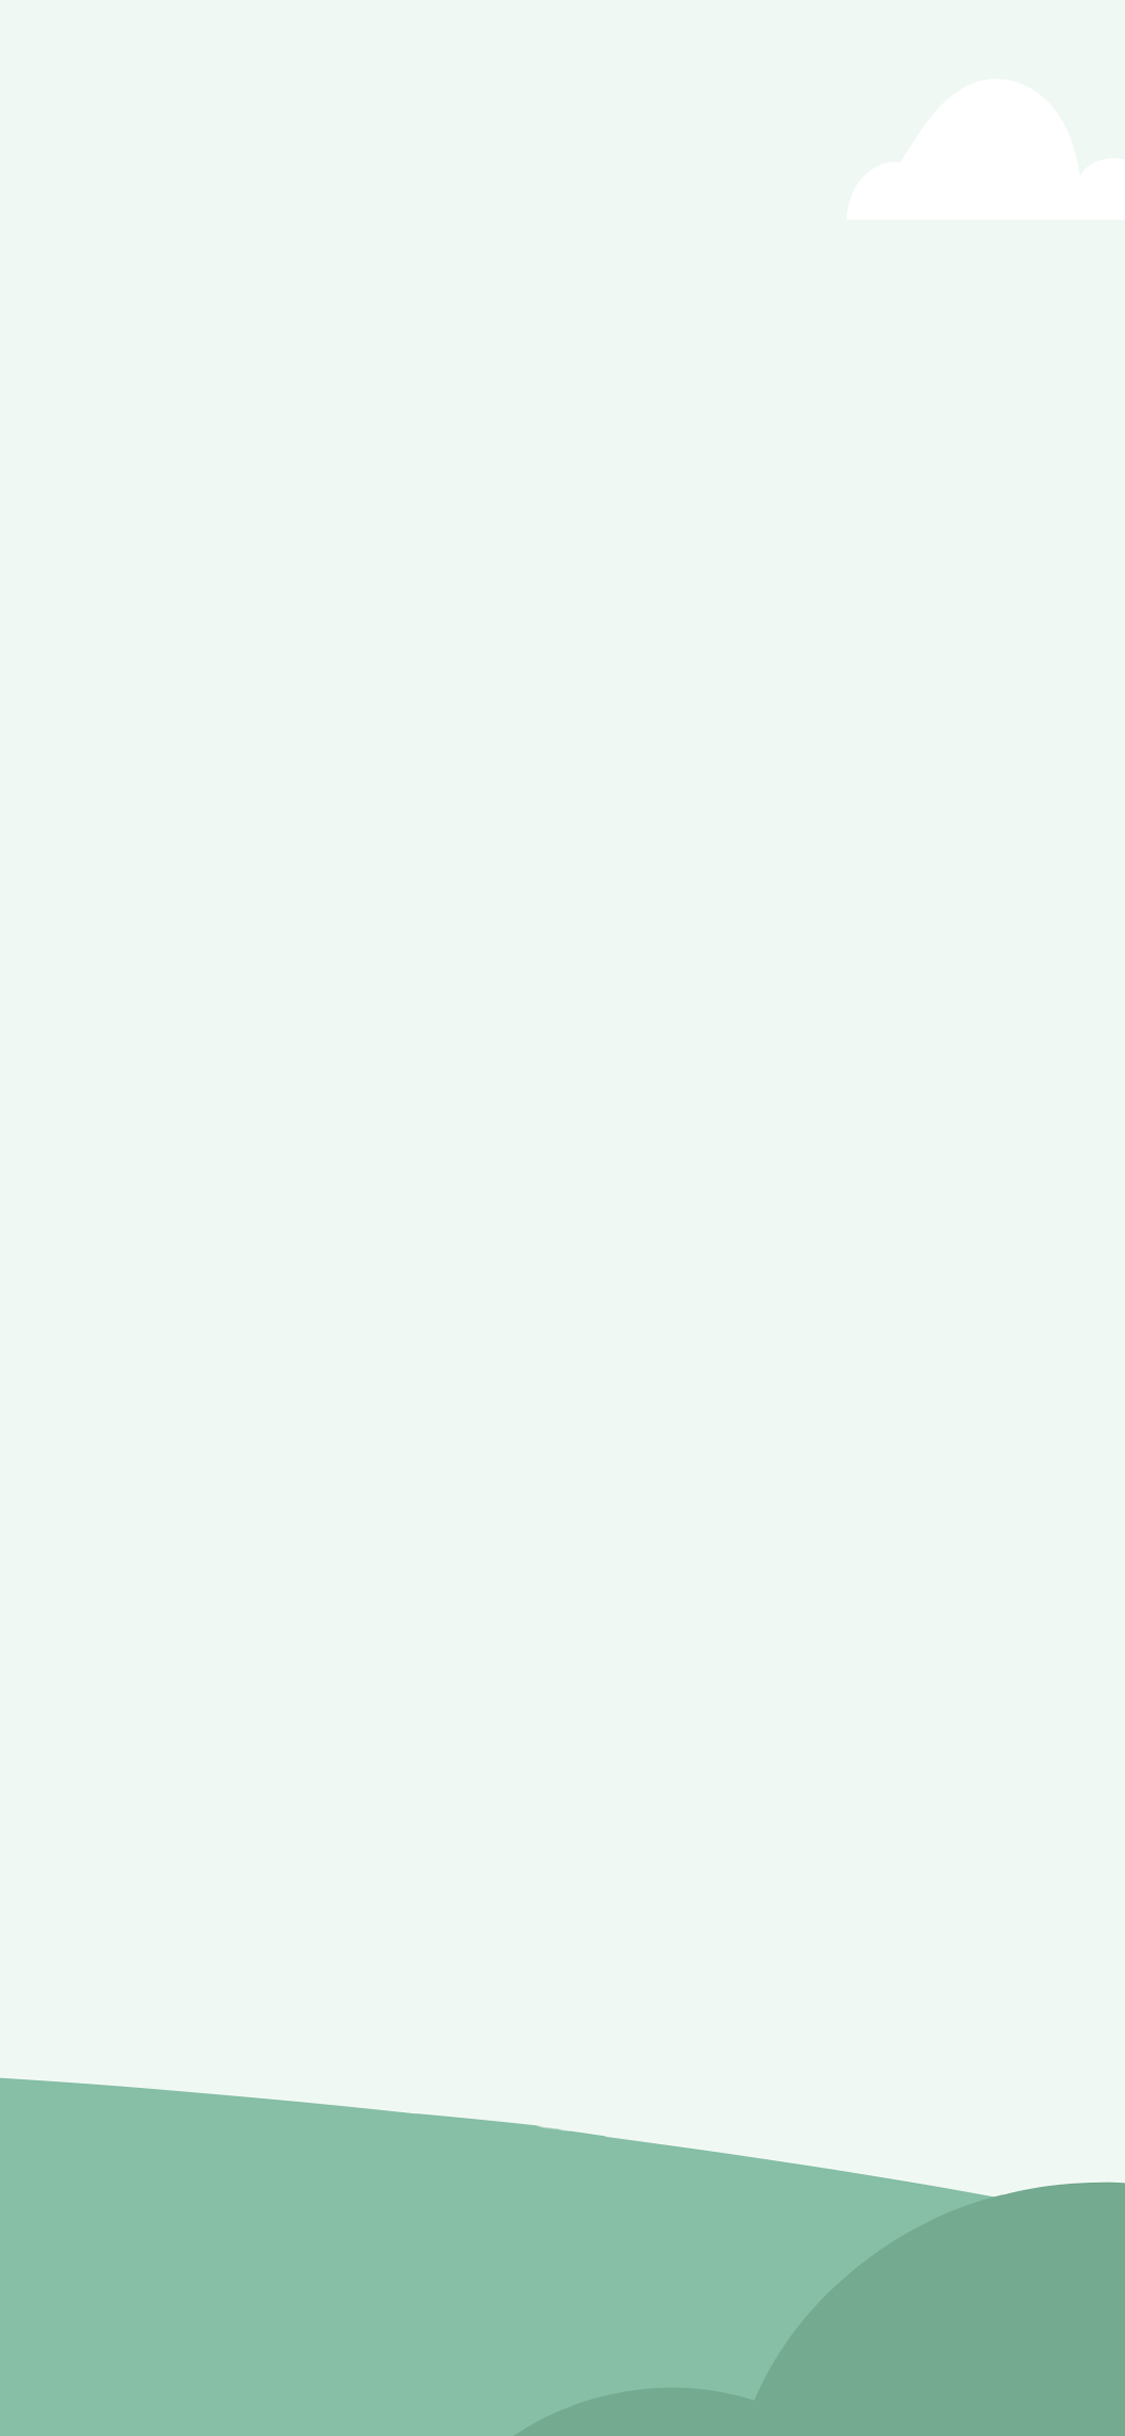
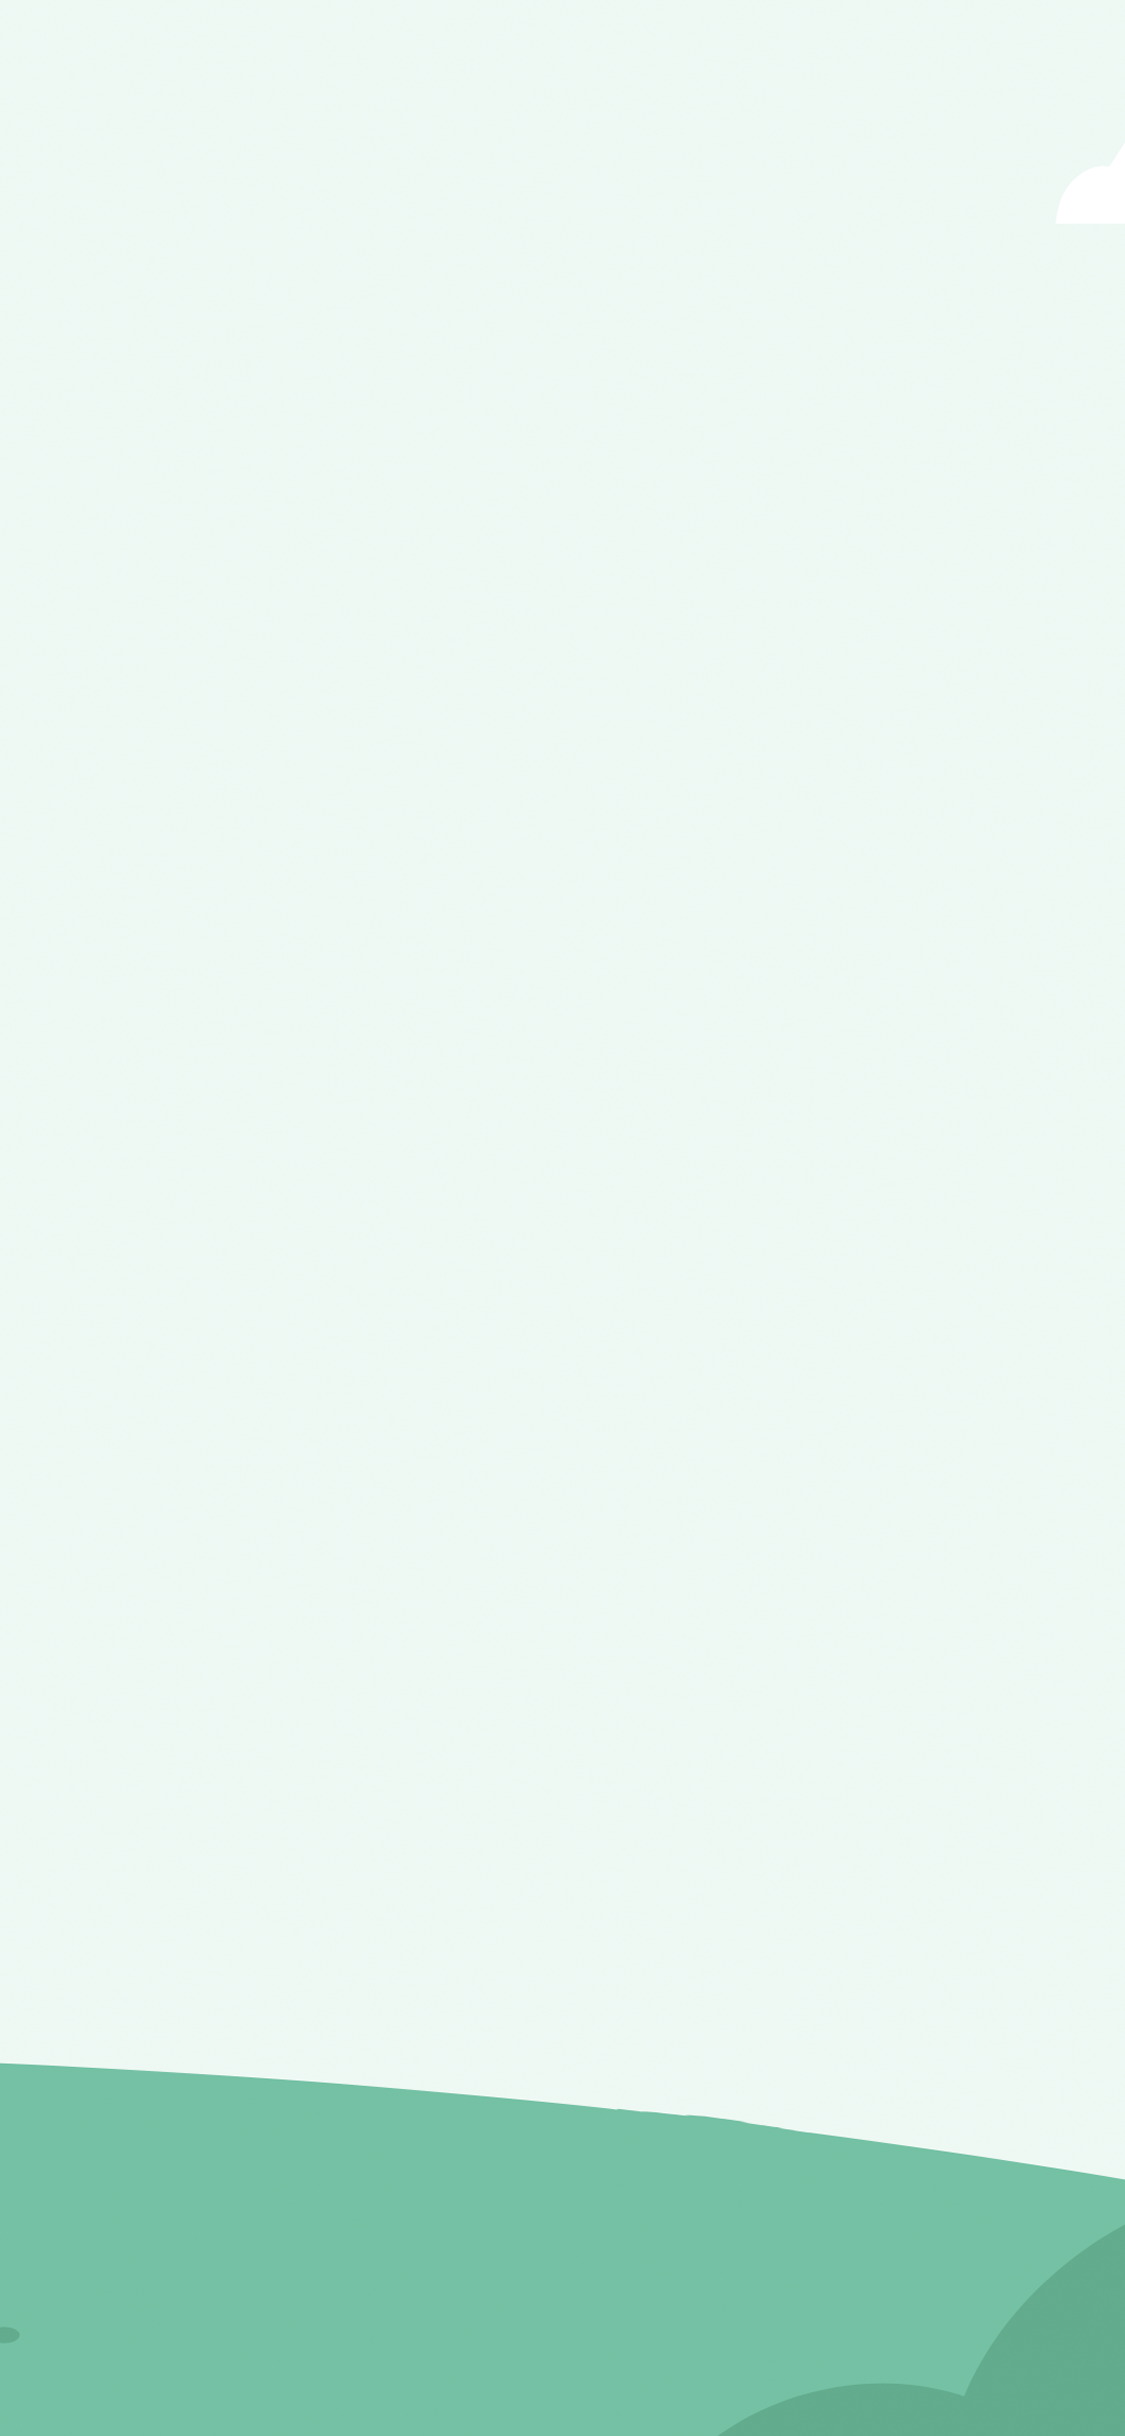
UI | Implement new background screens for setup sequence (#133)
* Add intro_screen, temporarily replace splash screen code with intro screen logic

* Add delay and transition to splash screen, it's messy though!

* Modify splash screen spacing and sizing, as well as scan list sizing

* Change Text Button Color to match binsight brand

* Remove redundant variables

* Update wording on tutorial screen

* Remove more redundant code from index.dart in setup

* Refactor splash screen animation code (with major help from Daniel)

* Add intro_sequence file, refactor wifi scan and config page to not rely on parameters

* Remove unnecessary imports

* Refactor splash animation to prevent unmounted exceptions from occurring

* Add manual page transition to UI buttons, froze screen so user cannot do it themselves.

* Remove unnecessary imports

* Modify manual page transition to use passed-in key

* add tests assets for intro background

* new test images

* Refactor setup sequence to use provider instead of hardcoded parameters

* add new seamless background assests, and cute lil bee for dashboard

* Add new image assets, rename backgrounds, remove old backgrounds

* Add listen parameter to transitions to ensure they work properly

* Add logic to autofill ssid in config page

---------

Changed region(s): [[0.0, 0.8424, 0.9956, 0.9048], [0.0, 0.936, 0.0311, 0.9672]]

diff --git a/lib/pages/setup/wifi_scan.dart b/lib/pages/setup/wifi_scan.dart
@@ -123,7 +123,7 @@ class _WifiScanPageState extends State<WifiScanPage> {
     isScanning = false;
     Provider.of<WifiResultNotifier>(context, listen: false)
         .setWifiResult(wifiResult);
-    Provider.of<SetupKeyNotifier>(context).setupKey.currentState?.next();
+    Provider.of<SetupKeyNotifier>(context, listen: false).setupKey.currentState?.next();
   }
 
   @override
@@ -207,7 +207,7 @@ The error was: ${(error as BleOperationFailureException).message}.
       },
       child: Scaffold(
         body: CustomBackground(
-          imageURL: "assets/images/FlowersBackground.png",
+          imageURL: "assets/images/wifi_scan_screen.png",
           child: Column(
             children: [
               ScanList(
@@ -226,7 +226,7 @@ The error was: ${(error as BleOperationFailureException).message}.
                   stopScanning();
                   Provider.of<DeviceNotifier>(context, listen: false)
                       .resetDevice();
-                  Provider.of<SetupKeyNotifier>(context).setupKey.currentState?.previous();
+                  Provider.of<SetupKeyNotifier>(context, listen: false).setupKey.currentState?.previous();
                 },
                 child: Text(
                   "Back",

diff --git a/lib/pages/setup/wifi_configuration.dart b/lib/pages/setup/wifi_configuration.dart
@@ -58,9 +58,13 @@ class _WifiConfigurationPageState extends State<WifiConfigurationPage> {
   @override
   Widget build(BuildContext context) {
     final textTheme = Theme.of(context).textTheme;
+    final provider = Provider.of<WifiResultNotifier>(context);
+    if (provider.wifiResult != null) {
+      ssidController.text = provider.wifiResult!.ssid;
+    }
     return Scaffold(
       body: CustomBackground(
-        imageURL: "assets/images/FlowersBackground.png",
+        imageURL: "assets/images/wifi_config_screen.png",
         child: Column(
           mainAxisAlignment: MainAxisAlignment.center,
           children: [

diff --git a/lib/pages/setup/bluetooth.dart b/lib/pages/setup/bluetooth.dart
@@ -83,8 +83,8 @@ class _BluetoothPageState extends State<BluetoothPage> {
               ),
               () {
                 if (!context.mounted) return;
-                Provider.of<SetupKeyNotifier>(context).setupKey.currentState?.next();
-                dialogIsVisible = false;
+                Provider.of<SetupKeyNotifier>(context, listen: false).setupKey.currentState?.next();
+                Navigator.of(context).pop();
               },
             );
             return BluetoothAlertBox(
